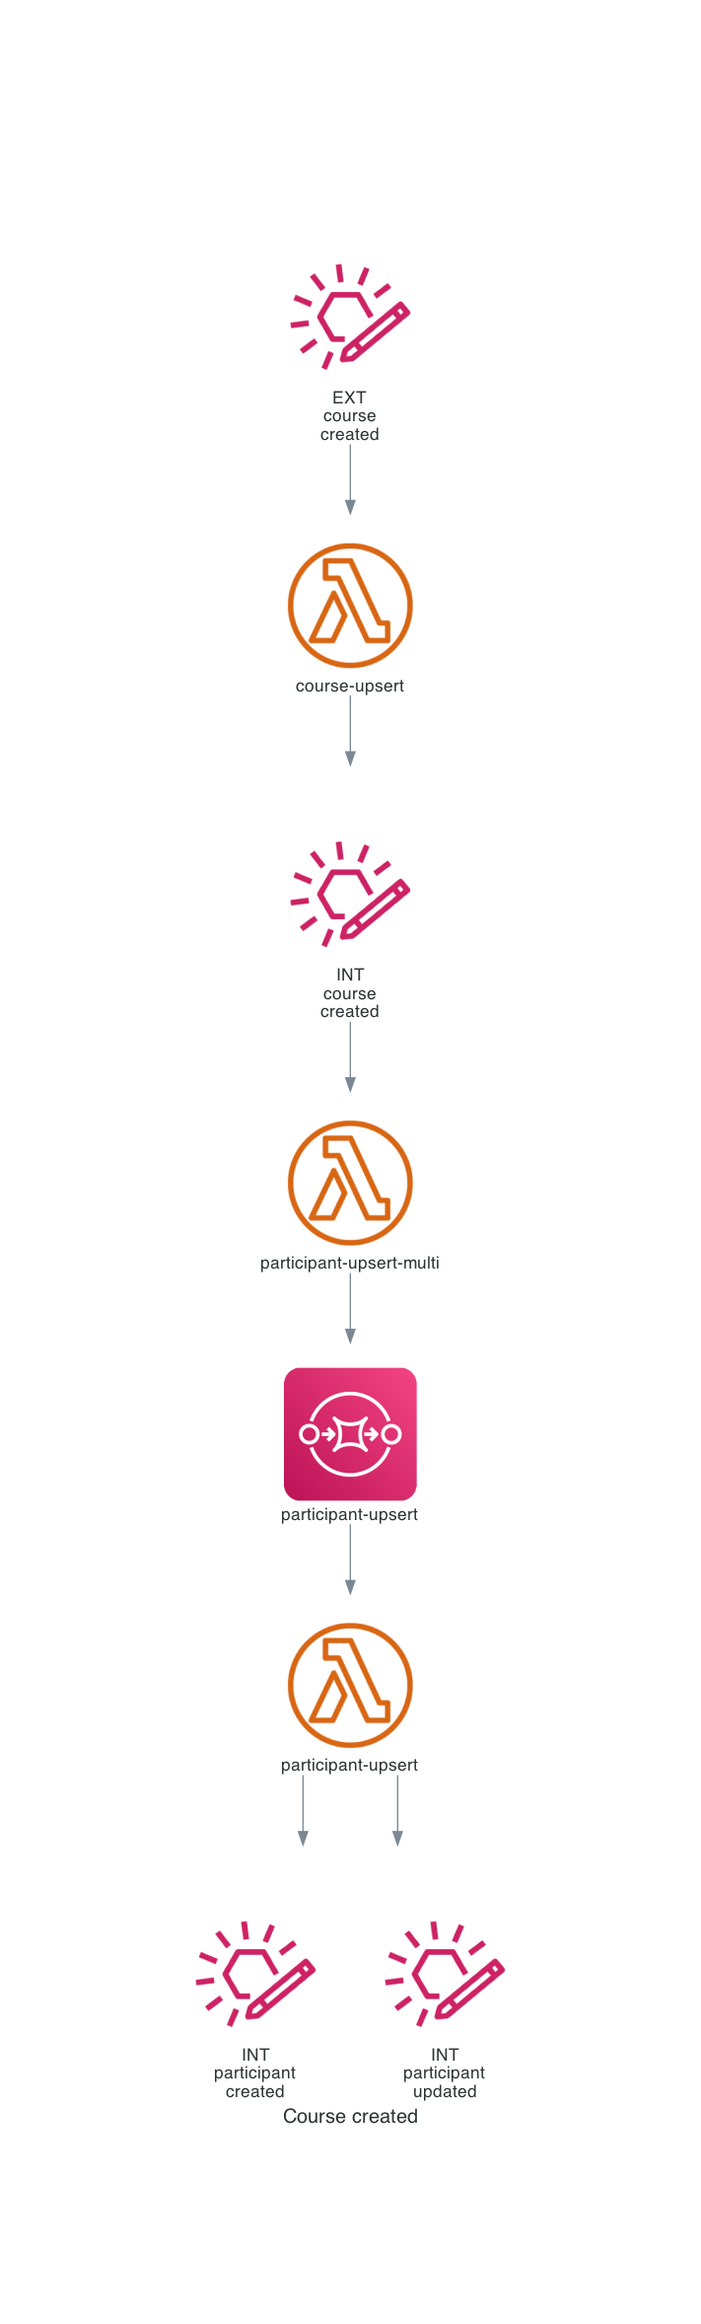
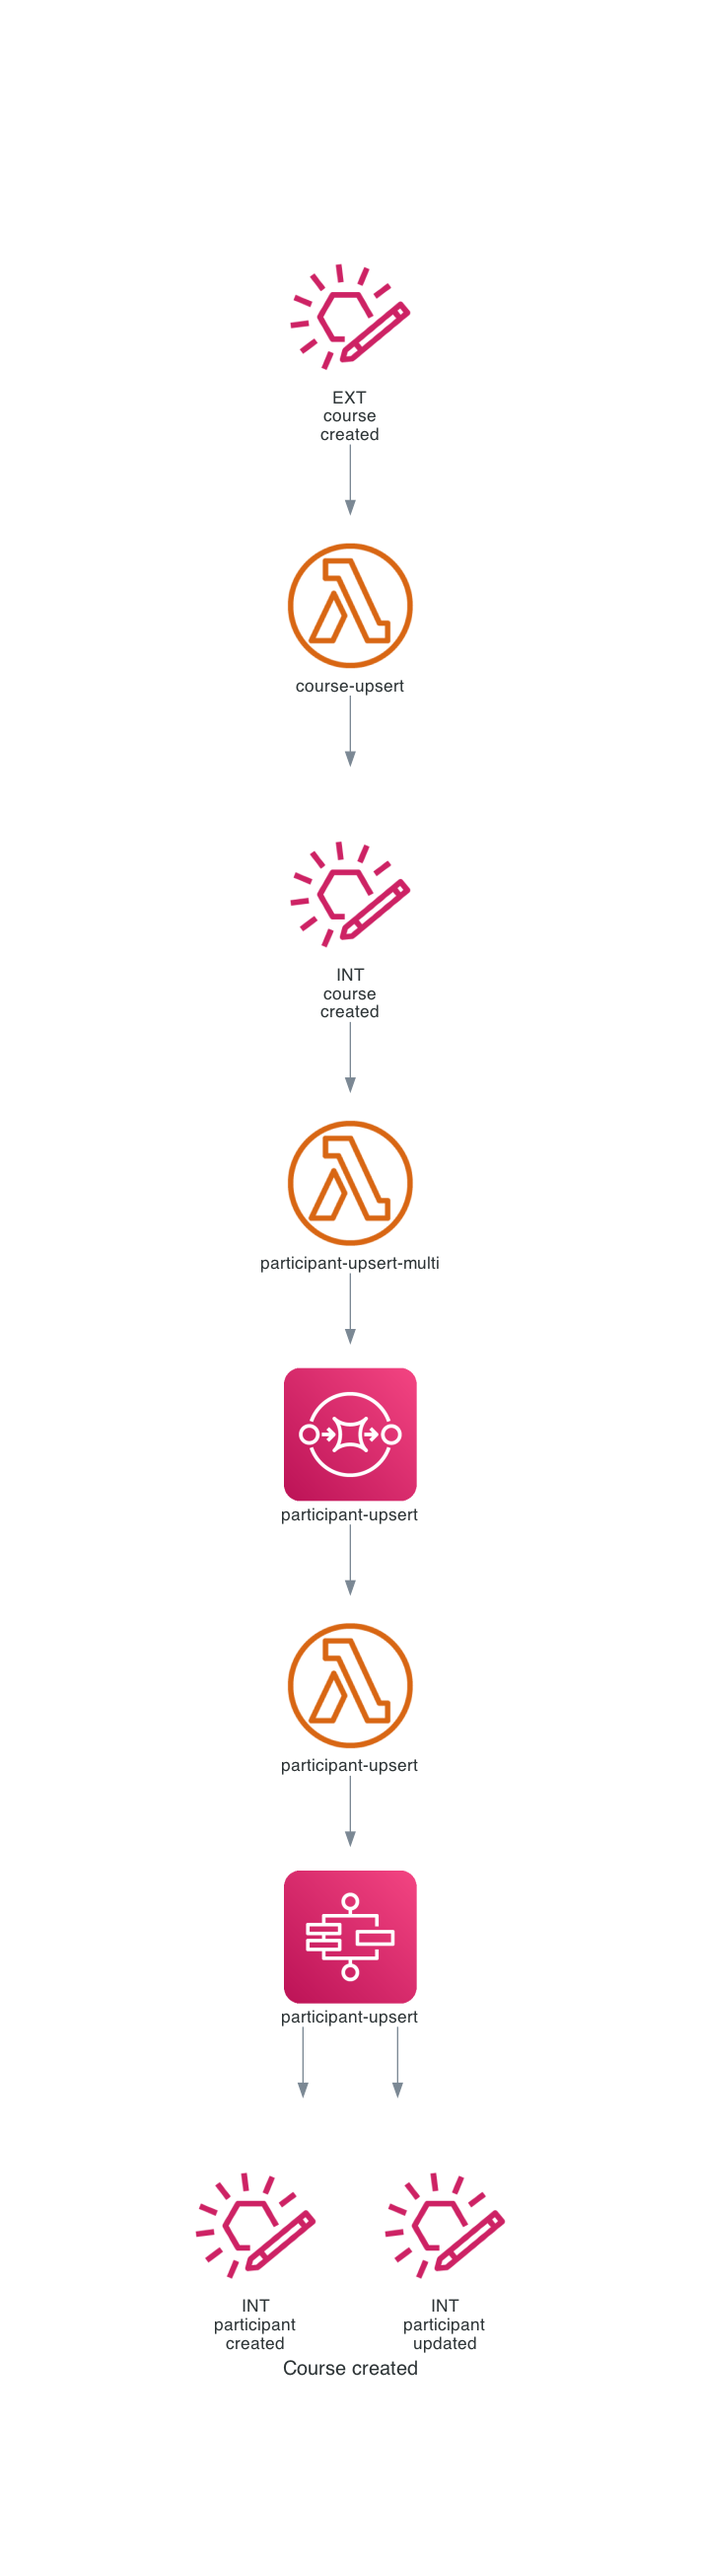
docs(courses): :memo: Participant upsert diagrams

Changed region(s): [[0.2785, 0.093, 0.7117, 0.9295]]

diff --git a/apps/education/courses/diagrams/participant-upserted.py b/apps/education/courses/diagrams/participant-upserted.py
@@ -1,0 +1,36 @@
+from diagrams import Cluster, Diagram
+from diagrams.aws.compute import LambdaFunction
+from diagrams.aws.integration import EventbridgeCustomEventBusResource
+
+graph_attr = {
+    "overlap": "false"
+}
+
+with Diagram("Participant created/updated", show=False, filename="participant-upserted", direction="TB", graph_attr=graph_attr):
+  ext_event_bus = EventbridgeCustomEventBusResource("EXT\nparticipant\ncreated")
+
+  with Cluster("Upsert participant state machine"):
+    int_event_bus_participant_created = EventbridgeCustomEventBusResource("INT\nparticipant\ncreated")
+    int_event_bus_participant_updated = EventbridgeCustomEventBusResource("INT\nparticipant\nupdated")
+    int_event_bus_member_created = EventbridgeCustomEventBusResource("INT\nmember\ncreated")
+    lambda_course_find = LambdaFunction("course-find")
+    lambda_participant_find = LambdaFunction("participant-find")
+    lambda_participant_source_find = LambdaFunction("participant-source-find")
+    lambda_participant_create = LambdaFunction("participant-create")
+    lambda_participant_update = LambdaFunction("participant-update")
+    lambda_member_find = LambdaFunction("member-find")
+    lambda_member_create = LambdaFunction("member-create")
+
+  ext_event_bus >> lambda_participant_find
+  lambda_participant_find >> lambda_participant_update
+  lambda_participant_update >> int_event_bus_participant_updated
+
+  lambda_participant_find >> lambda_participant_source_find
+  lambda_participant_source_find >> lambda_course_find
+  lambda_course_find >> lambda_member_find
+  lambda_member_find >> lambda_member_create
+  lambda_member_create >> int_event_bus_member_created
+  int_event_bus_member_created >> lambda_participant_create
+
+  lambda_member_find >> lambda_participant_create
+  lambda_participant_create >> int_event_bus_participant_created

diff --git a/apps/education/courses/diagrams/course-created.py b/apps/education/courses/diagrams/course-created.py
@@ -1,6 +1,6 @@
 from diagrams import Diagram
 from diagrams.aws.compute import LambdaFunction
-from diagrams.aws.integration import EventbridgeCustomEventBusResource, SimpleQueueServiceSqs
+from diagrams.aws.integration import EventbridgeCustomEventBusResource, SimpleQueueServiceSqs, StepFunctions
 
 graph_attr = {
     "overlap": "false"
@@ -15,6 +15,7 @@ with Diagram("Course created", show=False, filename="course-created", direction=
   lambda_course_upsert = LambdaFunction("course-upsert")
   lambda_participant_upsert = LambdaFunction("participant-upsert")
   lambda_participant_upsert_multi = LambdaFunction("participant-upsert-multi")
+  sfn_participant_upsert = StepFunctions("participant-upsert")
 
   ext_event_bus >> lambda_course_upsert
   lambda_course_upsert >> int_event_bus_course_created
@@ -22,6 +23,7 @@ with Diagram("Course created", show=False, filename="course-created", direction=
   int_event_bus_course_created >> lambda_participant_upsert_multi
   lambda_participant_upsert_multi >> sqs_participant_upsert
   sqs_participant_upsert >> lambda_participant_upsert
-  lambda_participant_upsert >> int_event_bus_participant_created
-  lambda_participant_upsert >> int_event_bus_participant_updated
+  lambda_participant_upsert >> sfn_participant_upsert
+  sfn_participant_upsert >> int_event_bus_participant_created
+  sfn_participant_upsert >> int_event_bus_participant_updated
 

diff --git a/apps/education/courses/diagrams/course-updated.py b/apps/education/courses/diagrams/course-updated.py
@@ -7,7 +7,7 @@ graph_attr = {
 }
 
 with Diagram("Course updated", show=False, filename="course-updated", direction="TB", graph_attr=graph_attr):
-  ext_event_bus = EventbridgeCustomEventBusResource("EXT\ncourse\ncreated")
+  ext_event_bus = EventbridgeCustomEventBusResource("EXT\ncourse\nupdated")
   int_event_bus_course_created = EventbridgeCustomEventBusResource("INT\ncourse\ncreated")
   int_event_bus_course_updated = EventbridgeCustomEventBusResource("INT\ncourse\nupdated")
   int_event_bus_participant_created = EventbridgeCustomEventBusResource("INT\nparticipant\ncreated")
